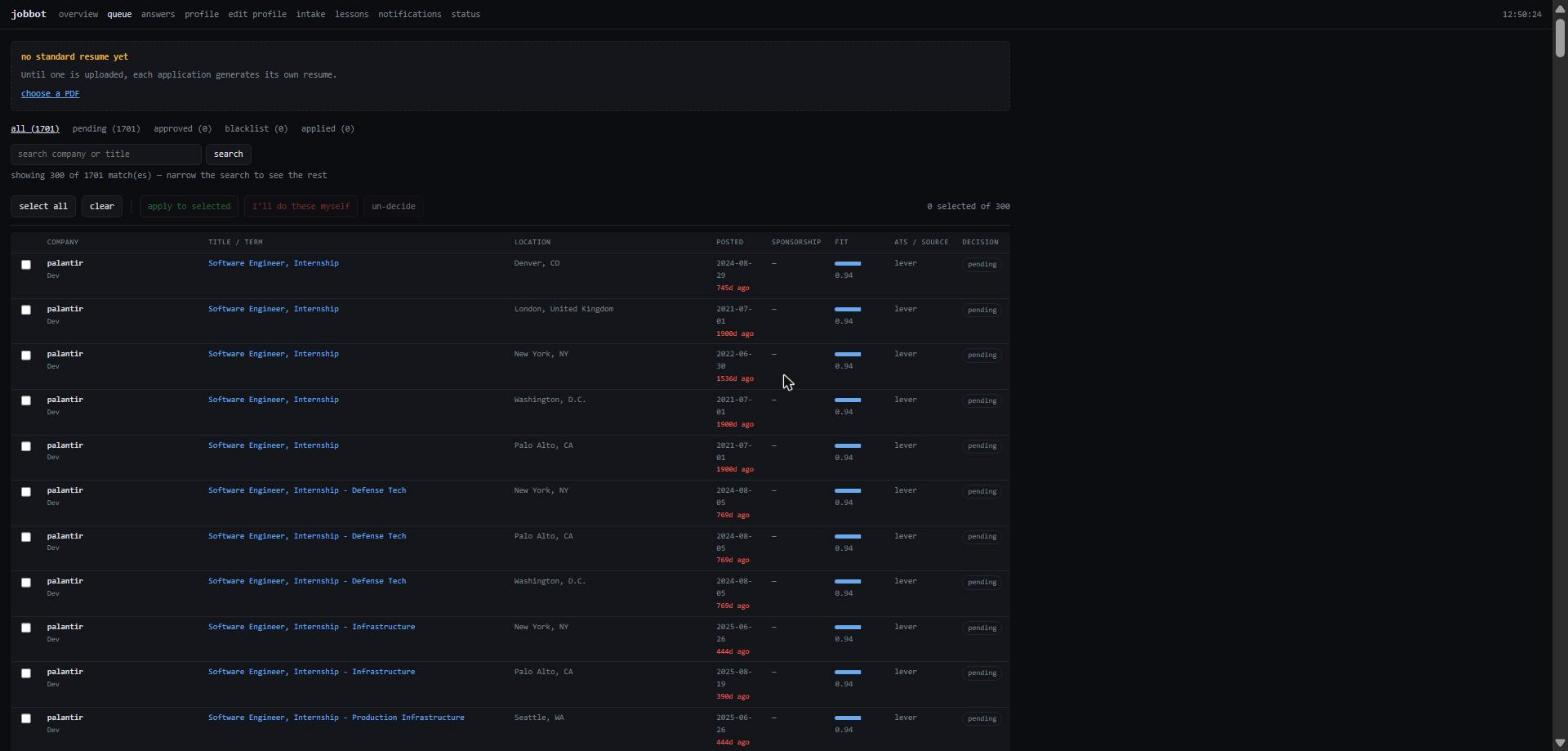
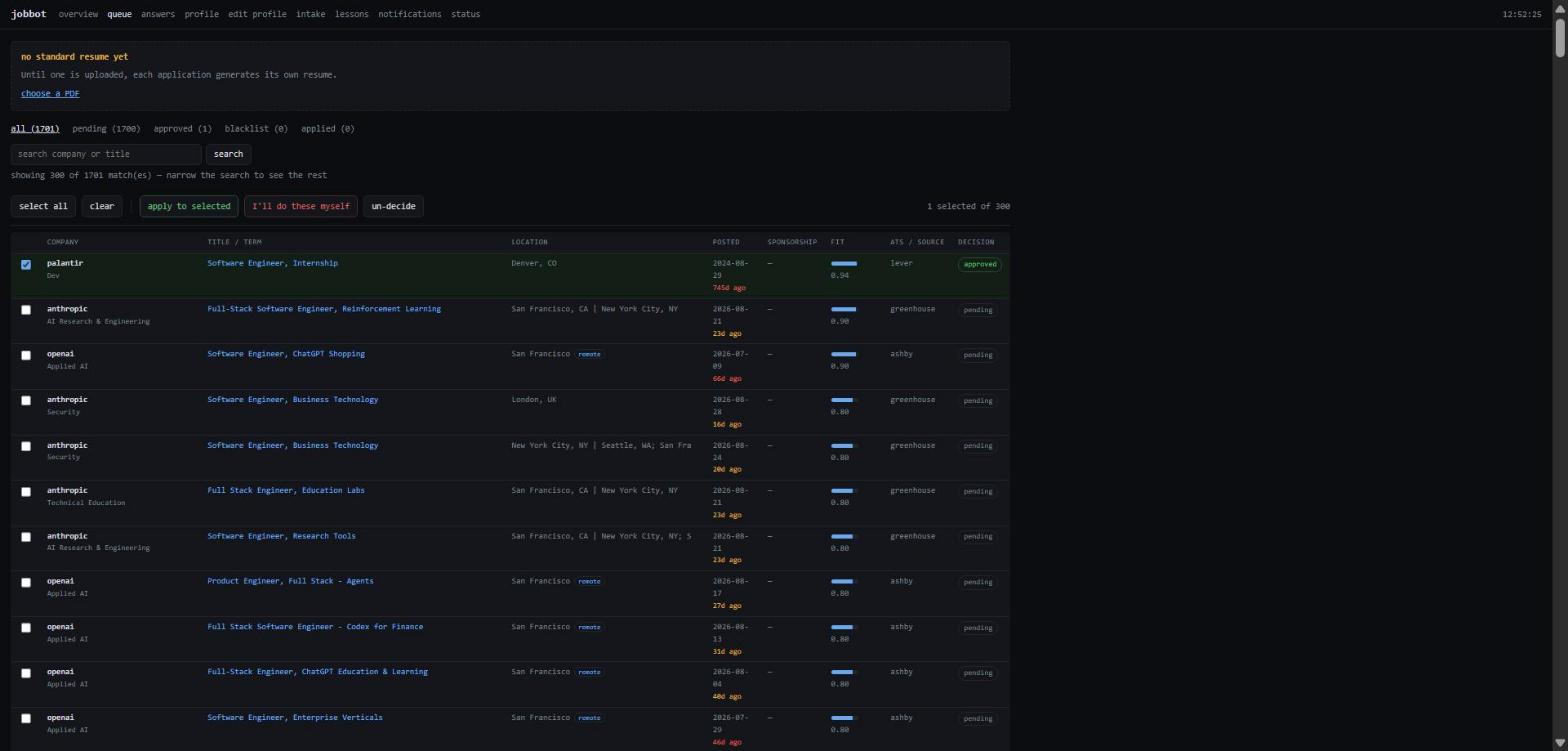
docs: 77 tests, queue screenshot with fresh-first ordering
Claude-Session: https://claude.ai/code/session_01DbatNyP8A9cqTsiWAJ9eYD

diff --git a/docs/DEMO.md b/docs/DEMO.md
@@ -73,7 +73,7 @@ Cut to the terminal:
 uv run pytest -q
 ```
 
-> "76 unit tests, CI on Linux, macOS and Windows, a dashboard self-check
+> "77 unit tests, CI on Linux, macOS and Windows, a dashboard self-check
 > that renders every view and attacks the path guard, and a live end-to-end
 > spec that drives the real server, real boards, and a real browser."
 

diff --git a/README.md b/README.md
@@ -172,7 +172,7 @@ Sources: `greenhouse:slug`, `lever:slug`, `ashby:slug`, `smartrecruiters:slug`,
 
 **25% of the score is reliability, so here is exactly how this was tested.**
 
-### Unit suite: 76 tests, runs in 2 seconds, no network
+### Unit suite: 77 tests, runs in 2 seconds, no network
 
 ```bash
 uv run pytest -q
